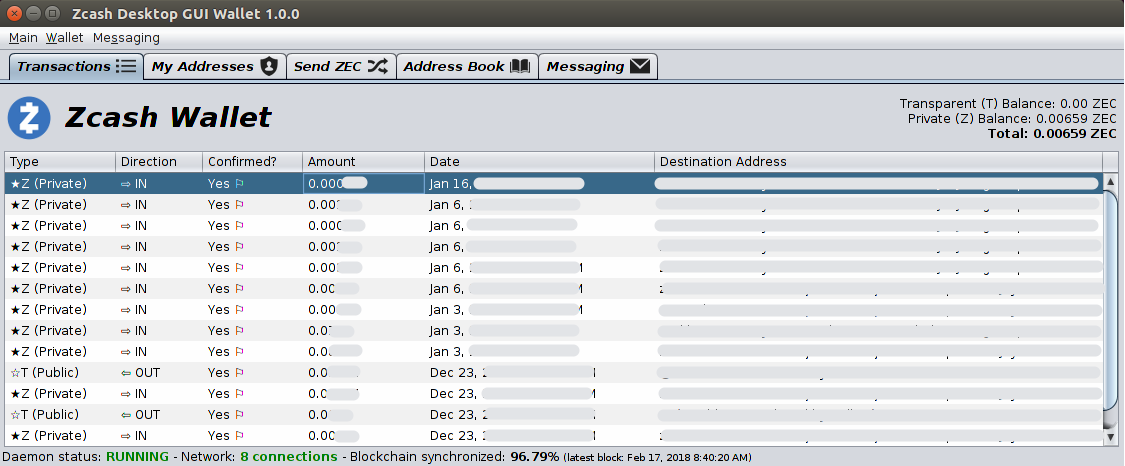
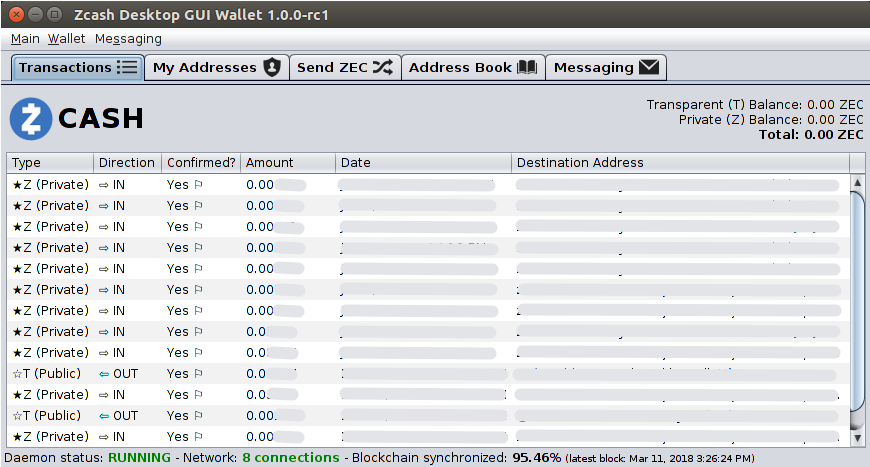
Updated README.md with version and changed preview pic

diff --git a/README.md b/README.md
@@ -1,4 +1,4 @@
-# [Zcash](https://z.cash/) Full-Node Desktop Wallet
+# [Zcash](https://z.cash/) Full-Node Desktop Wallet v1.0.0-rc1
 
 ![Zcash Desktop Wallet](https://github.com/zcash-community/zcash-full-node-wallet/raw/master/docs/ZcashWalletPreview.png "Zcash Desktop Wallet")
 
